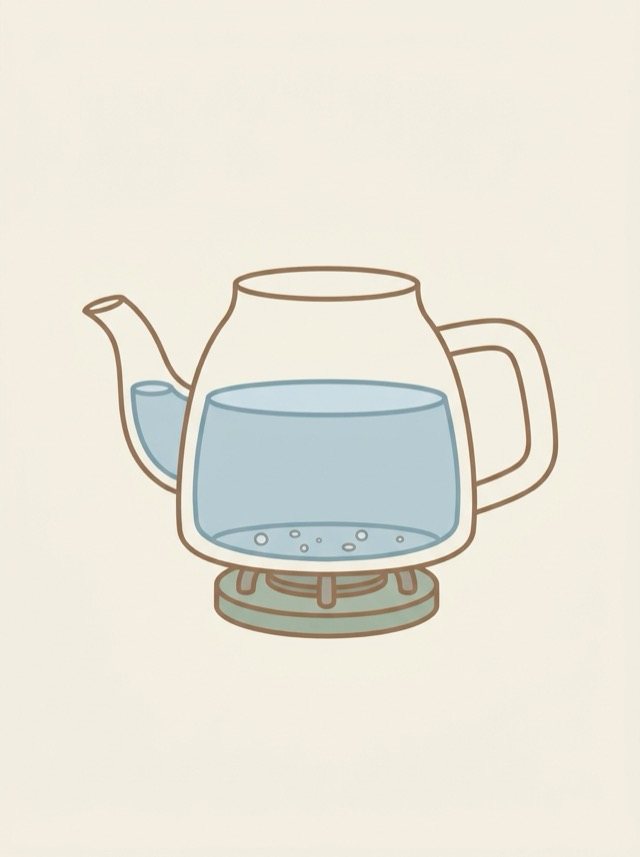
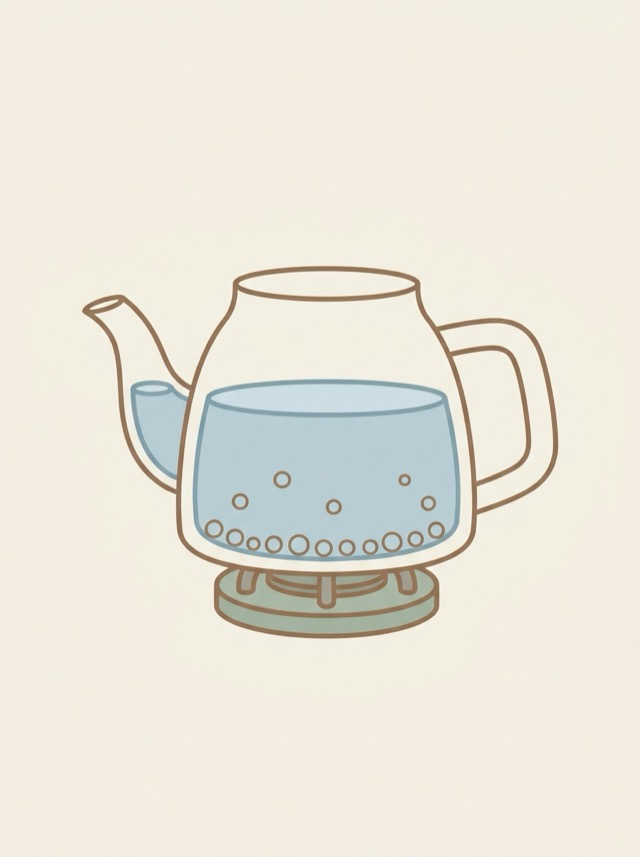
Add picture view, card sizes and story pointers; redo three cards
Setup screen:
- Story list has a picture view (default): each story is a small deck
  of cards with a close-up of one card, chosen by the new optional
  story.cover. A link switches back to the plain list.
- Card size choice: standard, large, largest. Bigger cards wrap onto
  more rows rather than scrolling sideways.

Play screen:
- Optional story.cursor: an emoji mouse pointer that fits the story
  (water drop for puffer fish, flame for the kettle). Decoration only:
  it is the same over every card and spot, and setup can turn it off.

Images:
- Kettle card 2 now shows clear bubbles along the bottom, so it reads
  apart from cards 1 and 3.
- Letter card 3 matches the scale of the other child cards; letter
  card 5 no longer has a floor line running to the edges.

README and CLAUDE.md document the cover and cursor fields.

Changed region(s): [[0.3125, 0.5764, 0.7188, 0.6674], [0.4062, 0.5461, 0.4688, 0.5764], [0.625, 0.5461, 0.6562, 0.5764]]

diff --git a/index.html b/index.html
@@ -19,7 +19,13 @@
     --accent-ink: #fdf9f1;
     --shadow: 0 1px 2px rgba(70, 48, 24, 0.10), 0 5px 14px rgba(70, 48, 24, 0.07);
     --cw: clamp(96px, 16vw, 172px);
+    --cap: 1;              /* caption text scale, grows with the cards */
   }
+  /* Card size, chosen on setup. Bigger cards wrap onto more rows on small screens. */
+  :root[data-size="large"] { --cw: clamp(124px, 22vw, 236px); --cap: 1.15; }
+  :root[data-size="largest"] { --cw: clamp(150px, 30vw, 310px); --cap: 1.3; }
+  :root[data-size="large"] main { max-width: 1320px; }
+  :root[data-size="largest"] main { max-width: 1680px; }
   @media (prefers-color-scheme: dark) {
     :root:not([data-theme="light"]) {
       --bg: #2a231d; --surface: #43382e; --soft: #352c25;
@@ -80,6 +86,26 @@
   .story { text-align: left; }
   .story span { display: block; }
   .story .meta { font-size: 0.88rem; font-weight: 400; color: var(--muted); }
+  /* Picture view: each story is a small deck of cards with a close-up of one
+     card on top. The two lines under the tile are the edges of the cards below. */
+  #storyList.pictures { grid-template-columns: repeat(auto-fill, minmax(172px, 1fr)); gap: 22px 16px; }
+  .pictures .story {
+    padding: 8px 8px 12px; border-radius: 18px; margin-bottom: 7px;
+    box-shadow: 0 3.5px 0 -1.5px var(--surface), 0 3.5px 0 0 var(--edge),
+                0 7px 0 -3px var(--surface), 0 7px 0 -1.5px var(--edge);
+  }
+  .pictures .story[aria-pressed="true"] {
+    box-shadow: 0 0 0 2.5px var(--accent), 0 4px 0 2.5px var(--accent), 0 8px 0 0 var(--edge);
+  }
+  .story .thumb {
+    display: flex; align-items: center; justify-content: center; overflow: hidden;
+    aspect-ratio: 4 / 3; margin-bottom: 10px; border-radius: 11px;
+    background: var(--soft); border: 1px solid var(--line);
+    font-size: 3.2rem; line-height: 1;
+  }
+  .story .thumb img { width: 100%; height: 100%; object-fit: cover; pointer-events: none; }
+  .story .thumb + span, .story .thumb ~ .meta { padding-inline: 6px; }
+  #listHead { justify-content: space-between; align-items: baseline; }
   label.check { display: inline-flex; gap: 10px; align-items: center; min-height: 48px; margin-top: 6px; cursor: pointer; }
   label.check input { width: 22px; height: 22px; accent-color: var(--accent); }
   #sessionBar { margin-top: 44px; padding-top: 22px; border-top: 1px solid var(--line); justify-content: space-between; }
@@ -119,13 +145,13 @@
   /* Room for two lines on every card, so pictures sit at the same height
      whether a caption wraps or not. */
   .card .cap {
-    padding: 6px 8px 10px; font-size: clamp(0.8rem, 1.5vw, 0.95rem); line-height: 1.3; text-align: center;
+    padding: 6px 8px 10px; font-size: calc(clamp(0.8rem, 1.5vw, 0.95rem) * var(--cap)); line-height: 1.3; text-align: center;
     min-height: calc(2.6em + 16px); display: flex; align-items: center; justify-content: center;
   }
   .card.plain .art { display: none; }
   .card.plain .cap {
     flex: 1; display: flex; align-items: center; justify-content: center;
-    font-size: clamp(0.9rem, 1.9vw, 1.15rem); padding: 12px;
+    font-size: calc(clamp(0.9rem, 1.9vw, 1.15rem) * var(--cap)); padding: 12px;
   }
   /* Picked-up card: ring plus a small lift. */
   .card.selected { border-color: var(--accent); box-shadow: 0 0 0 3.5px var(--accent), var(--shadow); translate: 0 -6px; }
@@ -134,6 +160,9 @@
   /* The fixed first card is labelled above its spot, never on the picture. */
   .slot.start::before { color: var(--ink); }
   .locked .card { cursor: default; }
+  /* Optional story pointer (story.cursor): decoration only, set in startStory.
+     Buttons and the cue menu keep their own pointers. */
+  #play.themed, #play.themed .card, #play.themed .slot { cursor: var(--story-cursor), auto; }
   #feedback { min-height: 2.2em; margin: 34px 0 16px; text-align: center; font-size: 1.3rem; }
   #actions { justify-content: center; }
   #cueBox { margin-top: 56px; justify-content: flex-end; font-size: 0.88rem; color: var(--muted); }
@@ -165,12 +194,21 @@
     <p class="muted">Choose a story for the student to put in order.</p>
     <p class="muted small" id="sourceNote" hidden></p>
 
-    <h2>Which story?</h2>
+    <div class="row" id="listHead">
+      <h2>Which story?</h2>
+      <button class="link small" id="viewBtn"></button>
+    </div>
     <div id="storyList"></div>
 
     <h2>How should the cards look?</h2>
     <div class="row" id="styleRow"></div>
     <label class="check small"><input type="checkbox" id="captions" checked> Show words under pictures</label>
+    <div id="cursorOpt" hidden>
+      <label class="check small"><input type="checkbox" id="storyCursor" checked> <span id="cursorLabel"></span></label>
+    </div>
+
+    <h2>How big should the cards be?</h2>
+    <div class="row" id="sizeRow"></div>
 
     <div id="dirBlock" hidden>
       <h2>Which way does it go?</h2>
@@ -239,7 +277,7 @@
 
 // Built-in copy of stories.json, used only when the file can't be fetched
 // (browsers block fetch when index.html is opened straight from disk).
-const SEED = [{"id": "brushing-teeth", "title": "Brushing teeth", "gradeBand": "K-2", "reversible": false, "styles": ["cartoon", "emoji", "text"], "paper": {"cartoon": "#f1ede1"}, "cards": [{"text": "Put toothpaste on the brush", "emoji": "🪥", "img": "01.jpg"}, {"text": "Brush all your teeth", "emoji": "😬", "img": "02.jpg"}, {"text": "Rinse with water", "emoji": "🚰", "img": "03.jpg"}]}, {"id": "planting-a-seed", "title": "Planting a seed", "gradeBand": "K-2", "reversible": false, "styles": ["cartoon", "emoji", "text"], "paper": {"cartoon": "#f1ede1"}, "cards": [{"text": "Dig a hole", "emoji": "🕳", "img": "01.jpg"}, {"text": "Drop in the seed", "emoji": "🌰", "img": "02.jpg"}, {"text": "Water the soil", "emoji": "💧", "img": "03.jpg"}, {"text": "A sprout comes up", "emoji": "🌱", "img": "04.jpg"}]}, {"id": "making-a-sandwich", "title": "Making a sandwich", "gradeBand": "3-5", "reversible": false, "styles": ["cartoon", "emoji", "text"], "paper": {"cartoon": "#f1ede1"}, "cards": [{"text": "Lay out two slices of bread", "emoji": "🍞", "img": "01.jpg"}, {"text": "Add cheese and lettuce", "emoji": "🧀", "img": "02.jpg"}, {"text": "Put the top slice on", "emoji": "🥪", "img": "03.jpg"}, {"text": "Eat the sandwich", "emoji": "😋", "img": "04.jpg"}]}, {"id": "mailing-a-letter", "title": "Mailing a letter", "gradeBand": "3-5", "reversible": false, "styles": ["cartoon", "emoji", "text"], "paper": {"cartoon": "#f1ede1"}, "cards": [{"text": "Write the letter", "emoji": "✍", "img": "01.jpg"}, {"text": "Seal it in an envelope", "emoji": "✉", "img": "02.jpg"}, {"text": "Stick on a stamp", "emoji": "🏷", "img": "03.jpg"}, {"text": "Drop it in the mailbox", "emoji": "📮", "img": "04.jpg"}, {"text": "The letter arrives", "emoji": "📬", "img": "05.jpg"}]}, {"id": "puffer-fish", "title": "Puffer fish", "gradeBand": "K-2", "reversible": true, "endLabels": ["calm", "puffed"], "styles": ["cartoon", "emoji", "text"], "paper": {"cartoon": "#f7f2e7"}, "cards": [{"text": "Small and calm", "emoji": "🐟", "img": "01.jpg"}, {"text": "Half puffed", "emoji": "🐠", "img": "02.jpg"}, {"text": "Fully puffed, spikes out", "emoji": "🐡", "img": "03.jpg"}]}, {"id": "kettle", "title": "Kettle", "gradeBand": "3-5", "reversible": true, "endLabels": ["cold", "boiling"], "styles": ["cartoon", "emoji", "text"], "paper": {"cartoon": "#f1ede1"}, "cards": [{"text": "Cold water, no bubbles", "emoji": "🧊", "img": "01.jpg"}, {"text": "Warm water, tiny bubbles", "emoji": "🌡", "img": "02.jpg"}, {"text": "Hot water, lots of bubbles", "emoji": "♨", "img": "03.jpg"}, {"text": "Boiling, steam whistling out", "emoji": "💨", "img": "04.jpg"}]}, {"id": "storm", "title": "Storm", "gradeBand": "3-5", "reversible": true, "endLabels": ["clear", "storm"], "styles": ["cartoon", "emoji", "text"], "cards": [{"text": "Clear blue sky", "emoji": "☀", "img": "01.jpg"}, {"text": "A few clouds", "emoji": "🌤", "img": "02.jpg"}, {"text": "Gray clouds cover the sky", "emoji": "☁", "img": "03.jpg"}, {"text": "Rain is falling", "emoji": "🌧", "img": "04.jpg"}, {"text": "Thunder and lightning", "emoji": "⛈", "img": "05.jpg"}]}, {"id": "voice-volume", "title": "Voice volume", "gradeBand": "K-8", "reversible": true, "endLabels": ["silent", "yelling"], "styles": ["cartoon", "emoji", "text"], "paper": {"cartoon": "#f1ede1"}, "cards": [{"text": "Silent, no sound", "emoji": "🔇", "img": "01.jpg"}, {"text": "Whisper", "emoji": "🤫", "img": "02.jpg"}, {"text": "Talking voice", "emoji": "🗣", "img": "03.jpg"}, {"text": "Loud voice", "emoji": "📣", "img": "04.jpg"}, {"text": "Yelling voice", "emoji": "🔊", "img": "05.jpg"}]}, {"id": "small-to-large", "title": "Small to large", "gradeBand": "K-2", "reversible": true, "endLabels": ["small", "large"], "styles": ["shape", "text"], "paper": {"shape": "#fdf9f1"}, "cards": [{"text": "Tiny", "img": "01.svg"}, {"text": "Small", "img": "02.svg"}, {"text": "Big", "img": "03.svg"}, {"text": "Very big", "img": "04.svg"}]}, {"id": "light-to-dark", "title": "Light to dark", "gradeBand": "K-2", "reversible": true, "endLabels": ["light", "dark"], "styles": ["shape", "text"], "paper": {"shape": "#fdf9f1"}, "cards": [{"text": "Very light", "img": "01.svg"}, {"text": "Light", "img": "02.svg"}, {"text": "Dark", "img": "03.svg"}, {"text": "Very dark", "img": "04.svg"}]}, {"id": "low-to-high", "title": "Low to high", "gradeBand": "K-2", "reversible": true, "endLabels": ["low", "high"], "styles": ["shape", "text"], "paper": {"shape": "#fdf9f1"}, "cards": [{"text": "Low", "img": "01.svg"}, {"text": "In the middle", "img": "02.svg"}, {"text": "High", "img": "03.svg"}]}, {"id": "filling-up", "title": "Filling up", "gradeBand": "K-2", "reversible": true, "endLabels": ["empty", "full"], "styles": ["shape", "text"], "paper": {"shape": "#fdf9f1"}, "cards": [{"text": "None filled", "img": "01.svg"}, {"text": "One filled", "img": "02.svg"}, {"text": "Two filled", "img": "03.svg"}, {"text": "Three filled", "img": "04.svg"}, {"text": "All filled", "img": "05.svg"}]}, {"id": "thin-to-thick", "title": "Thin to thick", "gradeBand": "K-2", "reversible": true, "endLabels": ["thin", "thick"], "styles": ["shape", "text"], "paper": {"shape": "#fdf9f1"}, "cards": [{"text": "Very thin", "img": "01.svg"}, {"text": "Thin", "img": "02.svg"}, {"text": "Thick", "img": "03.svg"}, {"text": "Very thick", "img": "04.svg"}]}, {"id": "few-to-many", "title": "Few to many", "gradeBand": "K-2", "reversible": true, "endLabels": ["few", "many"], "styles": ["shape", "text"], "paper": {"shape": "#fdf9f1"}, "cards": [{"text": "One dot", "img": "01.svg"}, {"text": "Three dots", "img": "02.svg"}, {"text": "Six dots", "img": "03.svg"}, {"text": "Ten dots", "img": "04.svg"}]}, {"id": "left-to-right", "title": "Left to right", "gradeBand": "K-2", "reversible": true, "endLabels": ["left", "right"], "styles": ["shape", "text"], "paper": {"shape": "#fdf9f1"}, "cards": [{"text": "On the left", "img": "01.svg"}, {"text": "In the middle", "img": "02.svg"}, {"text": "On the right", "img": "03.svg"}]}, {"id": "short-to-tall", "title": "Short to tall", "gradeBand": "K-2", "reversible": true, "endLabels": ["short", "tall"], "styles": ["shape", "text"], "paper": {"shape": "#fdf9f1"}, "cards": [{"text": "Very short", "img": "01.svg"}, {"text": "Short", "img": "02.svg"}, {"text": "Tall", "img": "03.svg"}, {"text": "Very tall", "img": "04.svg"}]}];// @seed
+const SEED = [{"id": "brushing-teeth", "title": "Brushing teeth", "gradeBand": "K-2", "reversible": false, "cover": 2, "cursor": "🦷", "styles": ["cartoon", "emoji", "text"], "paper": {"cartoon": "#f1ede1"}, "cards": [{"text": "Put toothpaste on the brush", "emoji": "🪥", "img": "01.jpg"}, {"text": "Brush all your teeth", "emoji": "😬", "img": "02.jpg"}, {"text": "Rinse with water", "emoji": "🚰", "img": "03.jpg"}]}, {"id": "planting-a-seed", "title": "Planting a seed", "gradeBand": "K-2", "reversible": false, "cursor": "🪴", "styles": ["cartoon", "emoji", "text"], "paper": {"cartoon": "#f1ede1"}, "cards": [{"text": "Dig a hole", "emoji": "🕳", "img": "01.jpg"}, {"text": "Drop in the seed", "emoji": "🌰", "img": "02.jpg"}, {"text": "Water the soil", "emoji": "💧", "img": "03.jpg"}, {"text": "A sprout comes up", "emoji": "🌱", "img": "04.jpg"}]}, {"id": "making-a-sandwich", "title": "Making a sandwich", "gradeBand": "3-5", "reversible": false, "cover": 3, "cursor": "🍽", "styles": ["cartoon", "emoji", "text"], "paper": {"cartoon": "#f1ede1"}, "cards": [{"text": "Lay out two slices of bread", "emoji": "🍞", "img": "01.jpg"}, {"text": "Add cheese and lettuce", "emoji": "🧀", "img": "02.jpg"}, {"text": "Put the top slice on", "emoji": "🥪", "img": "03.jpg"}, {"text": "Eat the sandwich", "emoji": "😋", "img": "04.jpg"}]}, {"id": "mailing-a-letter", "title": "Mailing a letter", "gradeBand": "3-5", "reversible": false, "cover": 4, "cursor": "💌", "styles": ["cartoon", "emoji", "text"], "paper": {"cartoon": "#f1ede1"}, "cards": [{"text": "Write the letter", "emoji": "✍", "img": "01.jpg"}, {"text": "Seal it in an envelope", "emoji": "✉", "img": "02.jpg"}, {"text": "Stick on a stamp", "emoji": "🏷", "img": "03.jpg"}, {"text": "Drop it in the mailbox", "emoji": "📮", "img": "04.jpg"}, {"text": "The letter arrives", "emoji": "📬", "img": "05.jpg"}]}, {"id": "puffer-fish", "title": "Puffer fish", "gradeBand": "K-2", "reversible": true, "endLabels": ["calm", "puffed"], "cursor": "💧", "styles": ["cartoon", "emoji", "text"], "paper": {"cartoon": "#f7f2e7"}, "cards": [{"text": "Small and calm", "emoji": "🐟", "img": "01.jpg"}, {"text": "Half puffed", "emoji": "🐠", "img": "02.jpg"}, {"text": "Fully puffed, spikes out", "emoji": "🐡", "img": "03.jpg"}]}, {"id": "kettle", "title": "Kettle", "gradeBand": "3-5", "reversible": true, "endLabels": ["cold", "boiling"], "cursor": "🔥", "styles": ["cartoon", "emoji", "text"], "paper": {"cartoon": "#f1ede1"}, "cards": [{"text": "Cold water, no bubbles", "emoji": "🧊", "img": "01.jpg"}, {"text": "Warm water, tiny bubbles", "emoji": "🌡", "img": "02.jpg"}, {"text": "Hot water, lots of bubbles", "emoji": "♨", "img": "03.jpg"}, {"text": "Boiling, steam whistling out", "emoji": "💨", "img": "04.jpg"}]}, {"id": "storm", "title": "Storm", "gradeBand": "3-5", "reversible": true, "endLabels": ["clear", "storm"], "cursor": "☂", "styles": ["cartoon", "emoji", "text"], "cards": [{"text": "Clear blue sky", "emoji": "☀", "img": "01.jpg"}, {"text": "A few clouds", "emoji": "🌤", "img": "02.jpg"}, {"text": "Gray clouds cover the sky", "emoji": "☁", "img": "03.jpg"}, {"text": "Rain is falling", "emoji": "🌧", "img": "04.jpg"}, {"text": "Thunder and lightning", "emoji": "⛈", "img": "05.jpg"}]}, {"id": "voice-volume", "title": "Voice volume", "gradeBand": "K-8", "reversible": true, "endLabels": ["silent", "yelling"], "cover": 4, "cursor": "🎤", "styles": ["cartoon", "emoji", "text"], "paper": {"cartoon": "#f1ede1"}, "cards": [{"text": "Silent, no sound", "emoji": "🔇", "img": "01.jpg"}, {"text": "Whisper", "emoji": "🤫", "img": "02.jpg"}, {"text": "Talking voice", "emoji": "🗣", "img": "03.jpg"}, {"text": "Loud voice", "emoji": "📣", "img": "04.jpg"}, {"text": "Yelling voice", "emoji": "🔊", "img": "05.jpg"}]}, {"id": "small-to-large", "title": "Small to large", "gradeBand": "K-2", "reversible": true, "endLabels": ["small", "large"], "styles": ["shape", "text"], "paper": {"shape": "#fdf9f1"}, "cards": [{"text": "Tiny", "img": "01.svg"}, {"text": "Small", "img": "02.svg"}, {"text": "Big", "img": "03.svg"}, {"text": "Very big", "img": "04.svg"}]}, {"id": "light-to-dark", "title": "Light to dark", "gradeBand": "K-2", "reversible": true, "endLabels": ["light", "dark"], "styles": ["shape", "text"], "paper": {"shape": "#fdf9f1"}, "cards": [{"text": "Very light", "img": "01.svg"}, {"text": "Light", "img": "02.svg"}, {"text": "Dark", "img": "03.svg"}, {"text": "Very dark", "img": "04.svg"}]}, {"id": "low-to-high", "title": "Low to high", "gradeBand": "K-2", "reversible": true, "endLabels": ["low", "high"], "styles": ["shape", "text"], "paper": {"shape": "#fdf9f1"}, "cards": [{"text": "Low", "img": "01.svg"}, {"text": "In the middle", "img": "02.svg"}, {"text": "High", "img": "03.svg"}]}, {"id": "filling-up", "title": "Filling up", "gradeBand": "K-2", "reversible": true, "endLabels": ["empty", "full"], "styles": ["shape", "text"], "paper": {"shape": "#fdf9f1"}, "cards": [{"text": "None filled", "img": "01.svg"}, {"text": "One filled", "img": "02.svg"}, {"text": "Two filled", "img": "03.svg"}, {"text": "Three filled", "img": "04.svg"}, {"text": "All filled", "img": "05.svg"}]}, {"id": "thin-to-thick", "title": "Thin to thick", "gradeBand": "K-2", "reversible": true, "endLabels": ["thin", "thick"], "styles": ["shape", "text"], "paper": {"shape": "#fdf9f1"}, "cards": [{"text": "Very thin", "img": "01.svg"}, {"text": "Thin", "img": "02.svg"}, {"text": "Thick", "img": "03.svg"}, {"text": "Very thick", "img": "04.svg"}]}, {"id": "few-to-many", "title": "Few to many", "gradeBand": "K-2", "reversible": true, "endLabels": ["few", "many"], "styles": ["shape", "text"], "paper": {"shape": "#fdf9f1"}, "cards": [{"text": "One dot", "img": "01.svg"}, {"text": "Three dots", "img": "02.svg"}, {"text": "Six dots", "img": "03.svg"}, {"text": "Ten dots", "img": "04.svg"}]}, {"id": "left-to-right", "title": "Left to right", "gradeBand": "K-2", "reversible": true, "endLabels": ["left", "right"], "styles": ["shape", "text"], "paper": {"shape": "#fdf9f1"}, "cards": [{"text": "On the left", "img": "01.svg"}, {"text": "In the middle", "img": "02.svg"}, {"text": "On the right", "img": "03.svg"}]}, {"id": "short-to-tall", "title": "Short to tall", "gradeBand": "K-2", "reversible": true, "endLabels": ["short", "tall"], "styles": ["shape", "text"], "paper": {"shape": "#fdf9f1"}, "cards": [{"text": "Very short", "img": "01.svg"}, {"text": "Short", "img": "02.svg"}, {"text": "Tall", "img": "03.svg"}, {"text": "Very tall", "img": "04.svg"}]}];// @seed
 
 const CUES = {
   independent: 'independently',
@@ -253,7 +291,7 @@ let stories = [];
 let log = [];          // one record per checked attempt
 let runCount = 0;      // one run = one presentation of a story
 let S = null;          // state of the story on screen
-const pick = { storyId: null, style: null, direction: 'forward' };
+const pick = { storyId: null, style: null, direction: 'forward', size: 'standard', view: 'pictures' };
 
 function show(name) {
   for (const id of ['setup', 'play', 'summary']) $(id).hidden = id !== name;
@@ -276,9 +314,13 @@ function renderSetup() {
 
   const list = $('storyList');
   list.replaceChildren();
+  list.classList.toggle('pictures', pick.view === 'pictures');
+  $('viewBtn').textContent = 'View: ' + pick.view;
+  $('viewBtn').onclick = () => { pick.view = pick.view === 'pictures' ? 'list' : 'pictures'; renderSetup(); };
   for (const s of stories) {
     const b = el('button', 'btn story');
     b.setAttribute('aria-pressed', s.id === story.id);
+    if (pick.view === 'pictures') b.append(buildThumb(s));
     b.append(el('span', '', s.title));
     const plays = new Set(log.filter(a => a.storyId === s.id).map(a => a.run)).size;
     const meta = [s.gradeBand, s.cards.length + ' cards'];
@@ -297,6 +339,21 @@ function renderSetup() {
     b.onclick = () => { pick.style = st; renderSetup(); };
     styleRow.append(b);
   }
+
+  $('cursorOpt').hidden = !story.cursor;
+  $('cursorLabel').textContent = 'Use the story pointer ' + (story.cursor || '') + ' (mouse or trackpad)';
+
+  const sizeRow = $('sizeRow');
+  sizeRow.replaceChildren();
+  for (const sz of ['standard', 'large', 'largest']) {
+    const b = el('button', 'btn', sz);
+    b.setAttribute('aria-pressed', sz === pick.size);
+    b.onclick = () => { pick.size = sz; renderSetup(); };
+    sizeRow.append(b);
+  }
+  // Memory only, like appearance: the choice lasts until the page is closed.
+  if (pick.size === 'standard') delete document.documentElement.dataset.size;
+  else document.documentElement.dataset.size = pick.size;
 
   $('dirBlock').hidden = !story.reversible;
   if (story.reversible) {
@@ -331,6 +388,53 @@ function shuffledAwayFrom(target) {
 }
 
 function pad2(n) { return String(n).padStart(2, '0'); }
+
+// Picture view on setup: a close-up of one card. story.cover is the card
+// number (from 1); the last card if not given. Uses the story's first image
+// set, else the card's emoji, else the tile stays words only.
+function buildThumb(story) {
+  const idx = Math.min(story.cards.length, Math.max(1, story.cover || story.cards.length)) - 1;
+  const data = story.cards[idx];
+  const thumb = el('span', 'thumb');
+  thumb.setAttribute('aria-hidden', 'true');
+  const useEmoji = () => {
+    thumb.replaceChildren();
+    thumb.style.background = '';
+    if (data.emoji) thumb.textContent = data.emoji; else thumb.hidden = true;
+  };
+  const style = story.styles.find(st => st !== 'emoji' && st !== 'text');
+  if (!style) { useEmoji(); return thumb; }
+  const img = new Image();
+  img.alt = '';
+  img.draggable = false;
+  img.onerror = useEmoji;
+  img.src = 'img/' + story.id + '/' + style + '/' + (data.img || pad2(idx + 1) + '.png');
+  thumb.append(img);
+  if (/\.svg$/.test(img.src)) img.style.objectFit = 'contain';   // shape cards: show the whole drawing
+  const paper = story.paper && story.paper[style];
+  if (/^#[0-9a-f]{6}$/i.test(paper || '')) thumb.style.background = paper;
+  return thumb;
+}
+
+// story.cursor: an emoji drawn as the mouse pointer on the play screen.
+// Decoration only: it is the same over every card and spot.
+const cursorCache = {};
+function emojiCursor(emoji) {
+  if (cursorCache[emoji]) return cursorCache[emoji];
+  const draw = px => {
+    const c = document.createElement('canvas');
+    c.width = c.height = px;
+    const g = c.getContext('2d');
+    g.font = Math.round(px * 0.8) + 'px system-ui, "Apple Color Emoji", "Segoe UI Emoji", "Noto Color Emoji", sans-serif';
+    g.textAlign = 'center';
+    g.textBaseline = 'middle';
+    g.fillText(emoji, px / 2, px / 2 + px * 0.06);
+    return 'url(' + c.toDataURL('image/png') + ')';
+  };
+  const sharp = 'image-set(' + draw(40) + ' 1x, ' + draw(80) + ' 2x) 20 20';
+  const value = CSS.supports('cursor', sharp + ', auto') ? sharp : draw(40) + ' 20 20';
+  return cursorCache[emoji] = value;
+}
 
 function buildCard(story, idx, style, captions) {
   const data = story.cards[idx];
@@ -393,6 +497,9 @@ function startStory() {
   if (pinned != null) S.slots[0] = pinned;
 
   $('playTitle').textContent = story.title;
+  const themed = !!story.cursor && $('storyCursor').checked;
+  $('play').classList.toggle('themed', themed);
+  if (themed) $('play').style.setProperty('--story-cursor', emojiCursor(story.cursor));
   const slotsEl = $('slots');
   slotsEl.replaceChildren();
   $('tray').replaceChildren();

diff --git a/README.md b/README.md
@@ -75,6 +75,8 @@ A JSON array of stories. Array order of `cards` is the forward order.
 | `endLabels` | Reversible stories only: `[startLabel, endLabel]` for the direction buttons. |
 | `styles` | Which styles the setup screen offers. `emoji` and `text` are built in; any other name (`cartoon`, `realistic`, `shape`…) is an image folder. |
 | `paper` | Optional. Background color of an image set, per style: `{"cartoon": "#f7f2e7"}`. The card takes that color so the caption strip blends into the picture in light and dark mode. |
+| `cover` | Optional. Card number (from 1) shown as the story's picture on the setup screen. Defaults to the last card. |
+| `cursor` | Optional. One emoji used as the mouse pointer while the story is played (for example `"💧"`). Decoration only; the setup screen can turn it off. |
 | `cards[].text` | Required. Caption, and the whole card in `text` style. |
 | `cards[].emoji` | Optional. Used in `emoji` style and as the fallback for a missing image. |
 | `cards[].img` | Optional. File name that replaces the default `01.png`, `02.png`… |

diff --git a/CLAUDE.md b/CLAUDE.md
@@ -87,6 +87,19 @@ story = {
 Pick story, style, and for reversible stories
 the direction (forward | reverse), shown with
 endLabels, e.g. "calm → puffed".
+Card size: standard | large | largest (memory
+only; sets --cw through data-size on :root).
+Story list view: pictures (default) | list.
+Pictures shows each story as a small deck with a
+close-up of one card: optional story.cover (card
+number from 1, default the last card), from the
+first image style, else emoji, else words only.
+Optional story.cursor (one emoji): the mouse
+pointer on the play screen, with a setup
+checkbox to turn it off. Decoration only: it
+must look the same over every card and spot. A
+pointer that reacts to the right card is a cue
+and would need clinician control and logging.
 
 ## Flow
 1. Cards shown shuffled (never in target order).
